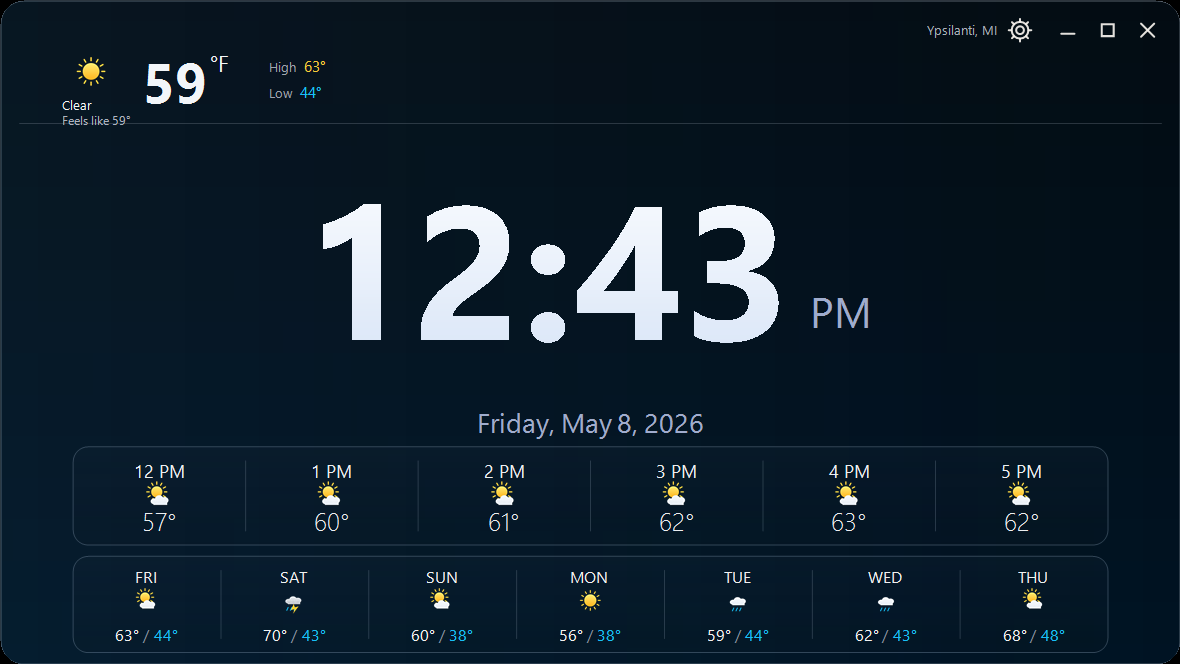
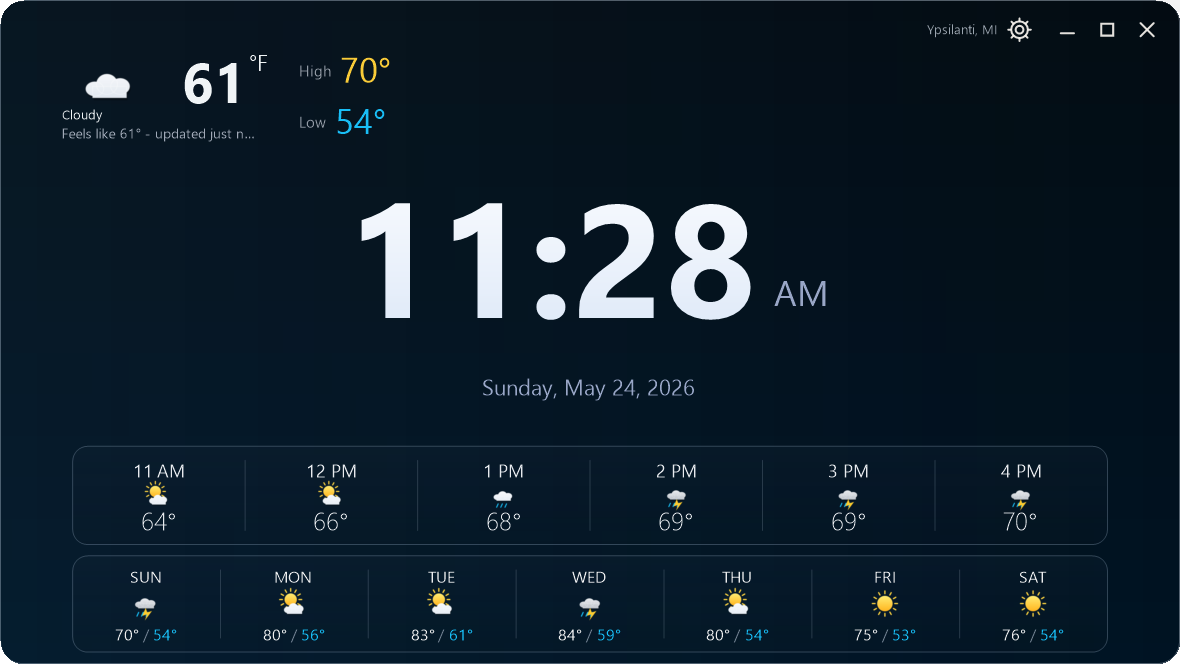
Enlarge header high low temperatures

diff --git a/WeatherClockApp.cs b/WeatherClockApp.cs
@@ -810,8 +810,9 @@ namespace WeatherClock
                 SizeF tempMeasure = g.MeasureString(temp, tempFont, PointF.Empty, StringFormat.GenericTypographic);
                 SizeF degreeMeasure = g.MeasureString(Degree + "F", degreeFont, PointF.Empty, StringFormat.GenericTypographic);
                 float tempY = area.Top + (area.Height - tempMeasure.Height) / 2f - area.Height * 0.02f;
+                float degreeY = tempY + area.Height * 0.05f;
                 g.DrawString(temp, tempFont, mainBrush, tempX, tempY, StringFormat.GenericTypographic);
-                g.DrawString(Degree + "F", degreeFont, mainBrush, tempX + tempMeasure.Width + 4f, tempY + area.Height * 0.05f, StringFormat.GenericTypographic);
+                g.DrawString(Degree + "F", degreeFont, mainBrush, tempX + tempMeasure.Width + 4f, degreeY, StringFormat.GenericTypographic);
 
                 float conditionY = Math.Min(area.Bottom - area.Height * 0.30f, iconRect.Bottom + area.Height * 0.08f) + 8f;
                 using (var conditionFont = new Font("Segoe UI", Math.Max(13f, area.Height * 0.145f), FontStyle.Regular, GraphicsUnit.Pixel))
@@ -824,33 +825,43 @@ namespace WeatherClock
                     string detail = snapshot.FeelsLike.HasValue
                         ? "Feels like " + snapshot.FeelsLike.Value.ToString(CultureInfo.InvariantCulture) + Degree + (string.IsNullOrEmpty(updateAge) ? string.Empty : " - " + updateAge)
                         : FirstNonBlank(updateAge, snapshot.StatusText);
-                    g.DrawString(detail, feelsFont, mutedBrush, new RectangleF(iconRect.Left - 8f, conditionY + area.Height * 0.22f, conditionWidth, area.Height * 0.24f), clipped);
-                }
+                    var feelsRect = new RectangleF(iconRect.Left - 8f, conditionY + area.Height * 0.22f, conditionWidth, area.Height * 0.24f);
+                    g.DrawString(detail, feelsFont, mutedBrush, feelsRect, clipped);
 
-                float stackLeft = tempX + tempMeasure.Width + degreeMeasure.Width + Math.Max(24f, area.Width * 0.03f);
-                float minStackLeft = area.Left + area.Width * 0.24f;
-                if (stackLeft < minStackLeft)
-                {
-                    stackLeft = minStackLeft;
-                }
-                using (var labelFont = new Font("Segoe UI", Math.Max(13f, area.Height * 0.15f), FontStyle.Regular, GraphicsUnit.Pixel))
-                using (var valueFont = new Font("Segoe UI", Math.Max(15f, area.Height * 0.17f), FontStyle.Regular, GraphicsUnit.Pixel))
-                using (var labelBrush = new SolidBrush(Color.FromArgb(178, 205, 210, 221)))
-                using (var highBrush = new SolidBrush(Color.FromArgb(255, 249, 203, 56)))
-                using (var lowBrush = new SolidBrush(Color.FromArgb(255, 25, 190, 246)))
-                {
-                    DrawInlinePair(g, "High", snapshot.TodayHigh, labelFont, valueFont, labelBrush, highBrush, stackLeft, area.Top + area.Height * 0.22f);
-                    DrawInlinePair(g, "Low", snapshot.TodayLow, labelFont, valueFont, labelBrush, lowBrush, stackLeft, area.Top + area.Height * 0.53f);
+                    float stackLeft = tempX + tempMeasure.Width + degreeMeasure.Width + Math.Max(24f, area.Width * 0.03f);
+                    float minStackLeft = area.Left + area.Width * 0.24f;
+                    if (stackLeft < minStackLeft)
+                    {
+                        stackLeft = minStackLeft;
+                    }
+
+                    float stackTop = degreeY;
+                    float stackBottom = feelsRect.Bottom;
+                    float stackHeight = Math.Max(area.Height * 0.52f, stackBottom - stackTop);
+                    float rowGap = Math.Max(2f, stackHeight * 0.06f);
+                    float rowHeight = (stackHeight - rowGap) / 2f;
+                    using (var labelFont = new Font("Segoe UI", Math.Max(13f, rowHeight * 0.34f), FontStyle.Regular, GraphicsUnit.Pixel))
+                    using (var valueFont = new Font("Segoe UI", Math.Max(24f, rowHeight * 0.78f), FontStyle.Regular, GraphicsUnit.Pixel))
+                    using (var labelBrush = new SolidBrush(Color.FromArgb(178, 205, 210, 221)))
+                    using (var highBrush = new SolidBrush(Color.FromArgb(255, 249, 203, 56)))
+                    using (var lowBrush = new SolidBrush(Color.FromArgb(255, 25, 190, 246)))
+                    {
+                        DrawStackedTempPair(g, "High", snapshot.TodayHigh, labelFont, valueFont, labelBrush, highBrush, stackLeft, stackTop, rowHeight);
+                        DrawStackedTempPair(g, "Low", snapshot.TodayLow, labelFont, valueFont, labelBrush, lowBrush, stackLeft, stackTop + rowHeight + rowGap, rowHeight);
+                    }
                 }
             }
         }
 
-        private void DrawInlinePair(Graphics g, string label, int? value, Font labelFont, Font valueFont, Brush labelBrush, Brush valueBrush, float x, float y)
+        private void DrawStackedTempPair(Graphics g, string label, int? value, Font labelFont, Font valueFont, Brush labelBrush, Brush valueBrush, float x, float y, float rowHeight)
         {
             string valueText = value.HasValue ? value.Value.ToString(CultureInfo.InvariantCulture) + Degree : "--";
-            SizeF labelSize = g.MeasureString(label + " ", labelFont, PointF.Empty, StringFormat.GenericTypographic);
-            g.DrawString(label, labelFont, labelBrush, x, y, StringFormat.GenericTypographic);
-            g.DrawString(valueText, valueFont, valueBrush, x + labelSize.Width + 8f, y - 2f, StringFormat.GenericTypographic);
+            SizeF labelSize = g.MeasureString(label, labelFont, PointF.Empty, StringFormat.GenericTypographic);
+            SizeF valueSize = g.MeasureString(valueText, valueFont, PointF.Empty, StringFormat.GenericTypographic);
+            float labelY = y + (rowHeight - labelSize.Height) / 2f;
+            float valueY = y + (rowHeight - valueSize.Height) / 2f - Math.Max(1f, rowHeight * 0.03f);
+            g.DrawString(label, labelFont, labelBrush, x, labelY, StringFormat.GenericTypographic);
+            g.DrawString(valueText, valueFont, valueBrush, x + labelSize.Width + Math.Max(8f, rowHeight * 0.20f), valueY, StringFormat.GenericTypographic);
         }
 
         private static string FormatUpdatedAgo(DateTime? updatedUtc)